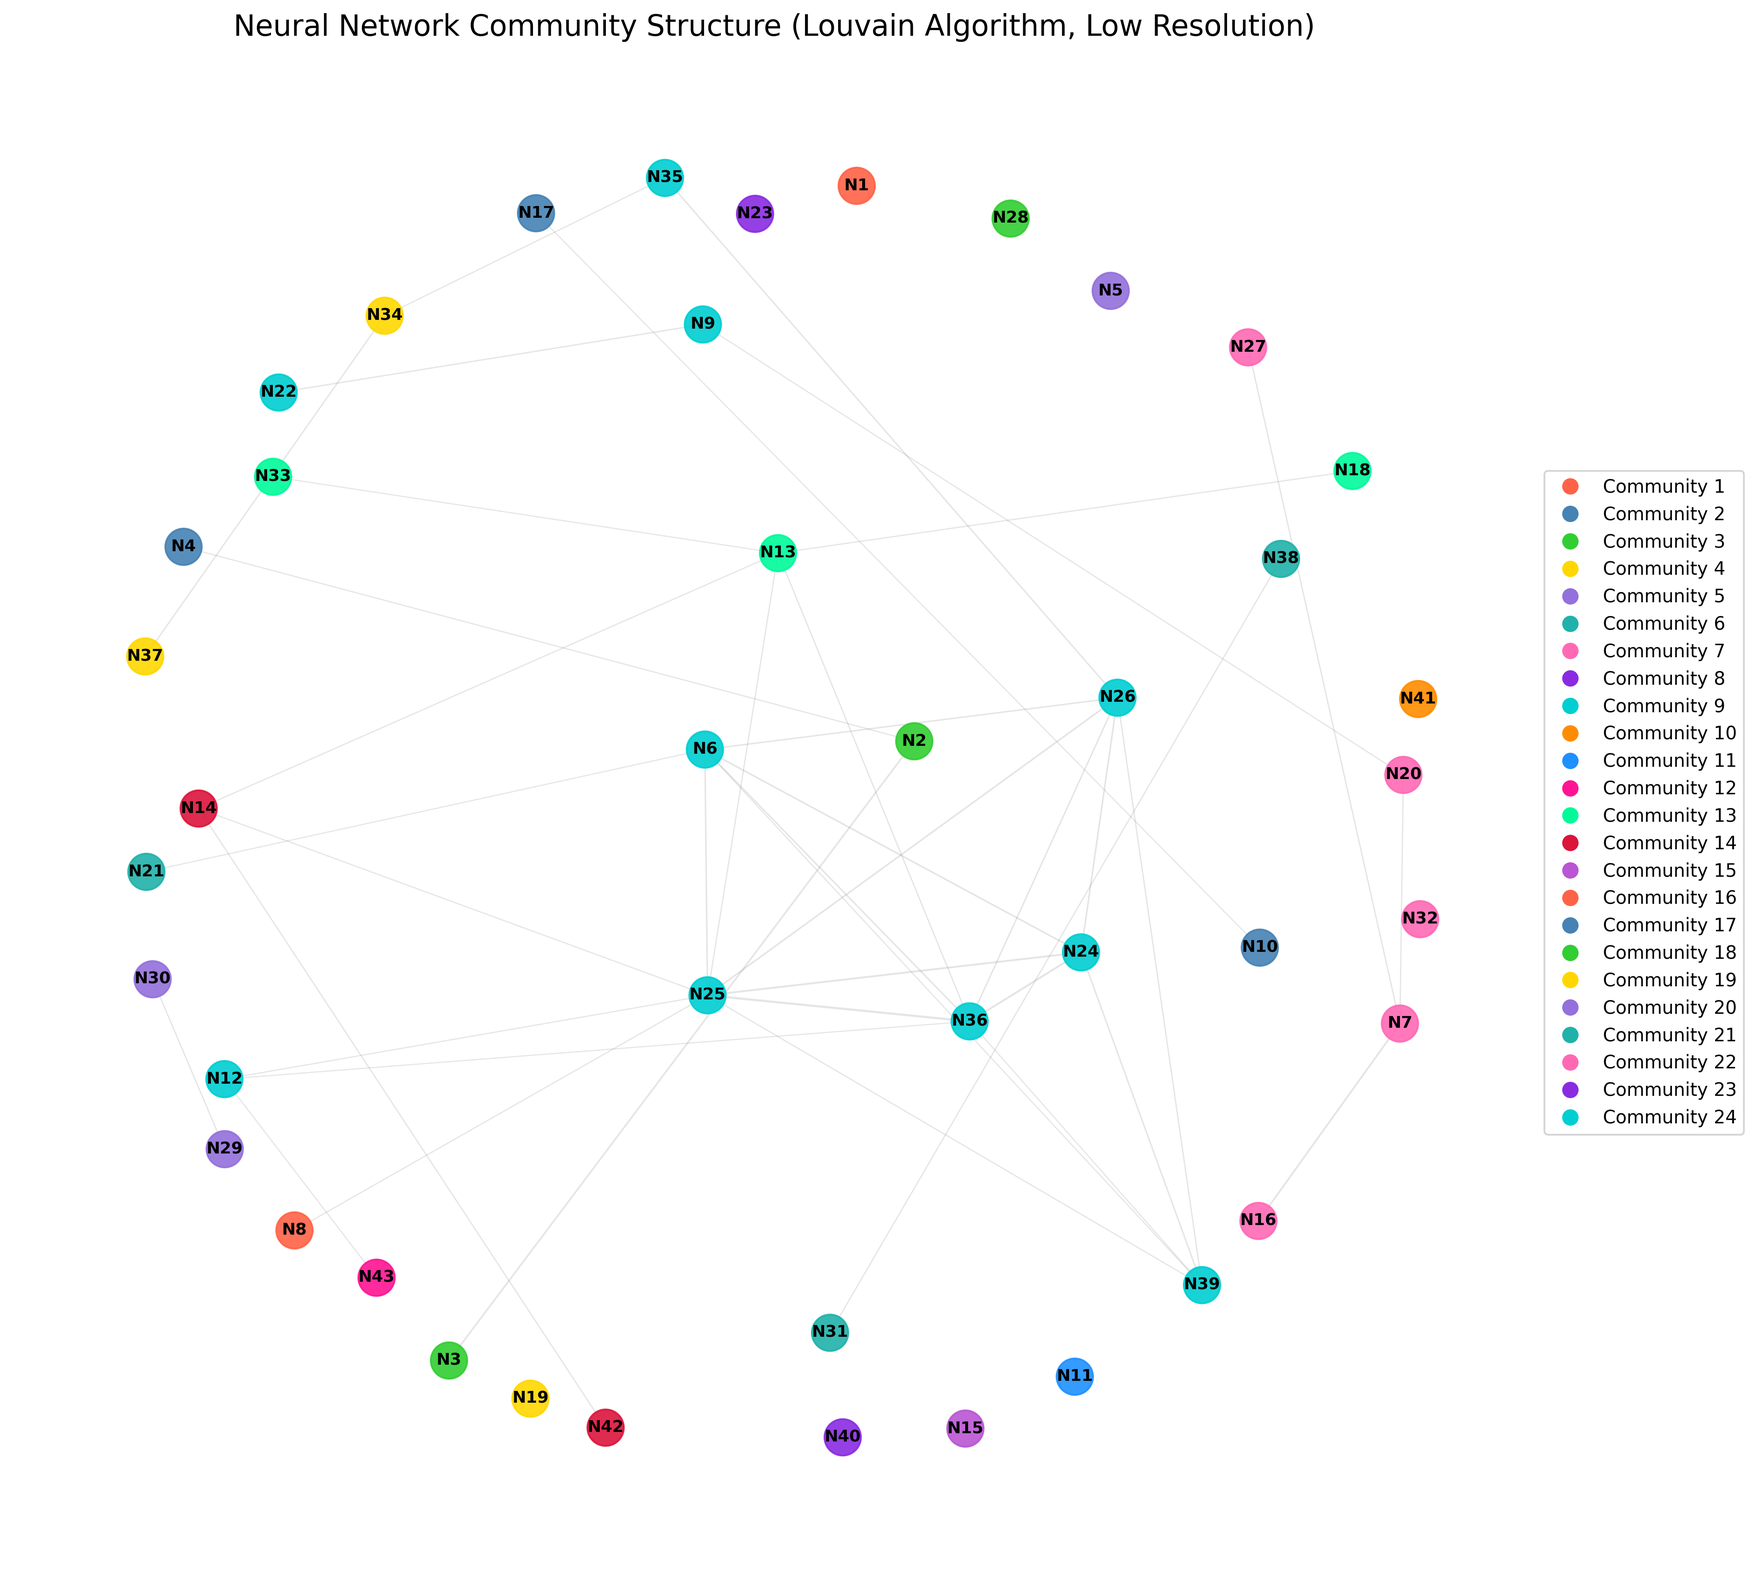
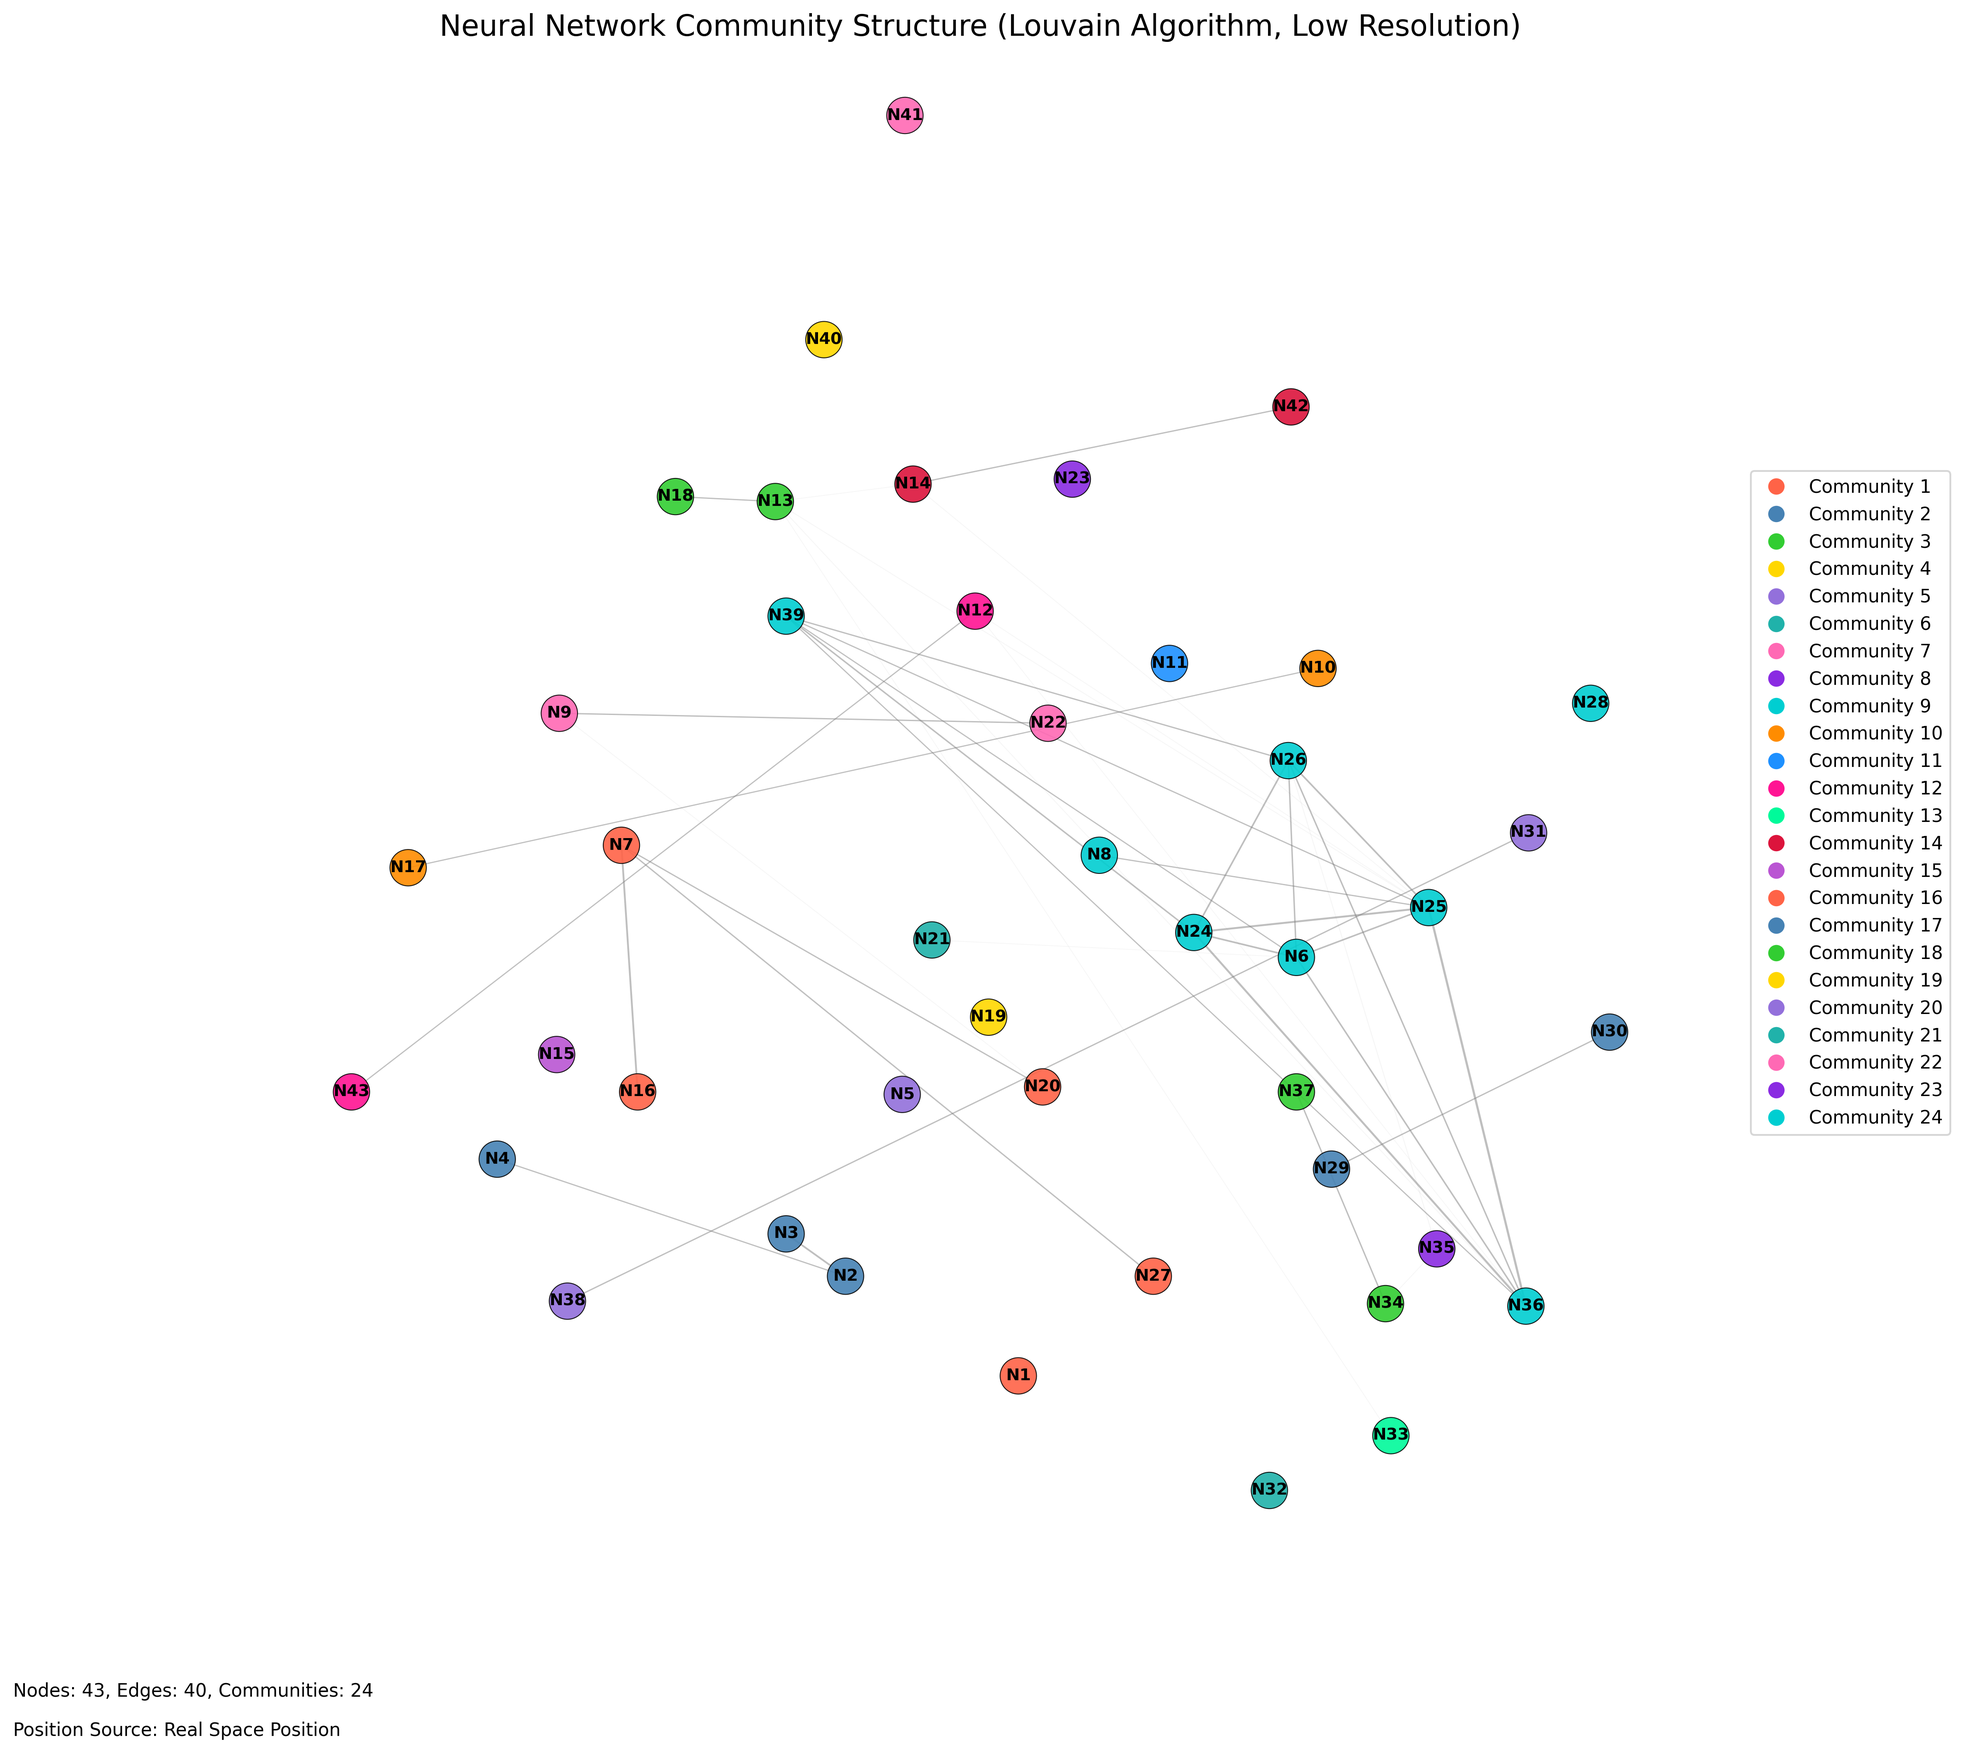
2

diff --git a/bettergcn/src/analysis.py b/bettergcn/src/analysis.py
@@ -391,13 +391,14 @@ class GCNVisualizer:
             
         return new_communities
     
-    def visualize_communities(self, output_path=None, title="Neural Network Community Structure"):
+    def visualize_communities(self, output_path=None, title="Neural Network Community Structure", position_file=None):
         """
         可视化社区结构
         
         参数:
             output_path: 输出文件路径，默认为None，将根据title生成
             title: 图表标题
+            position_file: 神经元位置坐标CSV文件路径，如果提供则使用真实空间位置
             
         返回:
             output_path: 输出图像路径
@@ -410,6 +411,7 @@ class GCNVisualizer:
             output_path = os.path.join(self.output_dir, "community_structure.png")
             
         print(f"\n开始生成社区结构可视化: {output_path}")
+        print(f"位置数据文件: {position_file if position_file else '未提供，将使用布局算法'}")
         
         # 创建图形
         plt.figure(figsize=(15, 15))
@@ -421,15 +423,155 @@ class GCNVisualizer:
         # 获取边权重用于设置边的宽度
         edge_weights = [self.G[u][v]['weight'] * 1.5 for u, v in self.G.edges()]
         
-        # 使用spring布局
-        pos = nx.spring_layout(self.G, k=2.0, iterations=100, seed=42)
+        # 确定节点位置
+        if position_file and os.path.exists(position_file):
+            try:
+                # 读取位置数据
+                import pandas as pd
+                position_data = pd.read_csv(position_file)
+                print(f"位置数据文件包含 {len(position_data)} 个神经元的位置信息")
+                
+                # 创建一个从神经元ID到位置的映射
+                position_map = {}
+                
+                # 检查CSV文件中的列名
+                columns = position_data.columns.tolist()
+                x_col = 'relative_x' if 'relative_x' in columns else columns[1]  # 默认第二列为x坐标
+                y_col = 'relative_y' if 'relative_y' in columns else columns[2]  # 默认第三列为y坐标
+                id_col = 'number' if 'number' in columns else columns[0]        # 默认第一列为ID
+                
+                print(f"使用列: ID={id_col}, X={x_col}, Y={y_col}")
+                
+                # 检查是否存在神经元编号与索引不一致的问题
+                neuron_ids_in_csv = set([int(row[id_col]) for _, row in position_data.iterrows()])
+                nodes_in_graph = set(self.G.nodes())
+                
+                # 查看最小和最大神经元ID，可能的偏移量
+                min_neuron_id = min(neuron_ids_in_csv) if neuron_ids_in_csv else -1
+                max_neuron_id = max(neuron_ids_in_csv) if neuron_ids_in_csv else -1
+                min_node_id = min(nodes_in_graph) if nodes_in_graph else -1
+                max_node_id = max(nodes_in_graph) if nodes_in_graph else -1
+                print(f"CSV中神经元ID范围: {min_neuron_id} 到 {max_neuron_id}")
+                print(f"图中节点ID范围: {min_node_id} 到 {max_node_id}")
+                
+                # 计算可能的偏移量，检查多种情况
+                offset = 0
+                
+                # 情况1: CSV从1开始，图从0开始 - 常见情况
+                if min_neuron_id == 1 and min_node_id == 0 and max_neuron_id - min_neuron_id == max_node_id - min_node_id:
+                    offset = -1
+                    print(f"检测到固定偏移: CSV从1开始，图从0开始，应用偏移量 {offset}")
+                
+                # 情况2: 检查ID集合的平均差值
+                elif len(neuron_ids_in_csv) > 0 and len(nodes_in_graph) > 0:
+                    # 如果数据集大小相同且有固定偏移，计算平均偏移
+                    if len(neuron_ids_in_csv) == len(nodes_in_graph):
+                        sorted_csv_ids = sorted(neuron_ids_in_csv)
+                        sorted_node_ids = sorted(nodes_in_graph)
+                        # 计算前10个ID的平均偏移（或全部如果少于10个）
+                        sample_size = min(10, len(sorted_csv_ids))
+                        offsets = [sorted_csv_ids[i] - sorted_node_ids[i] for i in range(sample_size)]
+                        avg_offset = sum(offsets) / len(offsets)
+                        # 如果所有偏移都相同，则认为是有效偏移
+                        if all(o == offsets[0] for o in offsets):
+                            offset = -offsets[0]  # 取负值因为我们需要从CSV ID到节点ID的映射
+                            print(f"检测到固定偏移模式: 平均偏移 {offsets[0]}，应用偏移量 {offset}")
+                
+                # 寻找每个节点的位置
+                missing_nodes = []
+                
+                for node in self.G.nodes():
+                    csv_id = node - offset  # 计算CSV中的对应ID
+                    if csv_id < 0:  # 防止负ID
+                        missing_nodes.append(node)
+                        continue
+                        
+                    row = position_data[position_data[id_col] == csv_id]
+                    if len(row) > 0:
+                        position_map[node] = (float(row[x_col].values[0]), float(row[y_col].values[0]))
+                    else:
+                        missing_nodes.append(node)
+                
+                # 如果我们有足够的位置信息，使用真实的空间位置
+                if len(position_map) == len(self.G.nodes()):
+                    pos = position_map
+                    print(f"使用真实空间位置可视化 {len(pos)} 个神经元")
+                else:
+                    print(f"警告：位置数据不完整 ({len(position_map)}/{len(self.G.nodes())})")
+                    if missing_nodes:
+                        print(f"缺失节点数量: {len(missing_nodes)}")
+                        if len(missing_nodes) < 10:
+                            print(f"缺失节点ID: {missing_nodes}")
+                        
+                    # 尝试使用可用的位置数据，对缺失的使用布局算法补充
+                    if len(position_map) > len(self.G.nodes()) * 0.8:  # 如果有超过80%的节点有位置数据
+                        print("使用部分真实位置数据，缺失部分使用布局算法补充")
+                        # 为缺失的节点生成位置
+                        try:
+                            # 使用布局算法为缺失节点生成位置
+                            temp_g = self.G.copy()
+                            for node in position_map:
+                                if node in temp_g:
+                                    temp_g.remove_node(node)
+                            
+                            if temp_g.number_of_nodes() > 0:
+                                temp_pos = nx.spring_layout(temp_g, seed=42)
+                                # 合并两个位置字典
+                                pos = {**position_map, **temp_pos}
+                            else:
+                                pos = position_map
+                        except Exception as e:
+                            print(f"补充缺失节点位置时出错: {e}")
+                            pos = position_map
+                    else:  # 如果缺失太多，使用布局算法
+                        print("缺失位置数据过多，使用布局算法")
+                        try:
+                            pos = nx.kamada_kawai_layout(self.G)
+                        except:
+                            pos = nx.spring_layout(self.G, seed=42, k=2.0, iterations=100)
+            except Exception as e:
+                print(f"读取位置数据时出错：{e}，将使用布局算法")
+                import traceback
+                print(f"错误详情:\n{traceback.format_exc()}")
+                try:
+                    pos = nx.kamada_kawai_layout(self.G)
+                except:
+                    pos = nx.spring_layout(self.G, seed=42, k=2.0, iterations=100)
+        else:
+            # 如果没有位置文件，使用布局算法
+            try:
+                pos = nx.kamada_kawai_layout(self.G)
+                print("使用Kamada-Kawai布局算法")
+            except:
+                pos = nx.spring_layout(self.G, seed=42, k=2.0, iterations=100)
+                print("使用Spring布局算法")
         
-        # 绘制边
-        nx.draw_networkx_edges(self.G, pos, width=edge_weights, alpha=0.2, edge_color='gray')
+        # 绘制边 - 根据不同社区边的透明度不同
+        same_community_edges = []
+        diff_community_edges = []
+        
+        for u, v in self.G.edges():
+            if self.communities[u] == self.communities[v]:
+                same_community_edges.append((u, v))
+            else:
+                diff_community_edges.append((u, v))
+        
+        # 先绘制社区间边（低透明度）
+        if diff_community_edges:
+            nx.draw_networkx_edges(self.G, pos, edgelist=diff_community_edges,
+                                width=[self.G[u][v]['weight'] * 1.0 for u, v in diff_community_edges],
+                                alpha=0.2, edge_color='lightgray')
+        
+        # 再绘制社区内边（高透明度）
+        if same_community_edges:
+            nx.draw_networkx_edges(self.G, pos, edgelist=same_community_edges,
+                                width=[self.G[u][v]['weight'] * 1.5 for u, v in same_community_edges],
+                                alpha=0.5, edge_color='gray')
         
         # 绘制节点
         node_sizes = [400 for _ in self.G.nodes()]
-        nx.draw_networkx_nodes(self.G, pos, node_size=node_sizes, node_color=node_colors, alpha=0.9)
+        nx.draw_networkx_nodes(self.G, pos, node_size=node_sizes, node_color=node_colors, alpha=0.9,
+                            edgecolors='black', linewidths=0.5)
         
         # 绘制节点标签
         labels = {node: f'N{node+1}' for node in self.G.nodes()}
@@ -445,6 +587,12 @@ class GCNVisualizer:
                                     markersize=10, label=f'Community {i+1}')
                          for i in range(num_communities)]
         plt.legend(handles=legend_elements, loc='center left', bbox_to_anchor=(1, 0.5))
+        
+        # 添加位置信息来源说明
+        position_source = "Real Space Position" if position_file and os.path.exists(position_file) else "Layout Algorithm Generated"
+        plt.figtext(0.02, 0.02, f"Position Source: {position_source}", fontsize=10)
+        plt.figtext(0.02, 0.04, f"Nodes: {len(self.G.nodes())}, Edges: {len(self.G.edges())}, Communities: {num_communities}", fontsize=10)
+        
         # 保存图像
         plt.savefig(output_path, dpi=300, bbox_inches='tight')
         plt.close()
@@ -797,6 +945,7 @@ def main():
     
     # 设置数据集基础路径 - 只需修改此处即可更改所有相关路径
     dataset_base_path = '../datasets/EMtrace01'
+    position_file = '../datasets/EMtrace01_Max_position.csv'
     
     # 初始化可视化器
     visualizer = GCNVisualizer(base_path=dataset_base_path)
@@ -806,7 +955,8 @@ def main():
     communities = visualizer.detect_communities()
     # 可视化社区结构
     community_viz_path = visualizer.visualize_communities(output_path="../results/EMtrace01/louvain_communities.png", 
-                                                         title="Neural Network Community Structure (Louvain Algorithm)")
+                                                         title="Neural Network Community Structure (Louvain Algorithm)",
+                                                         position_file=position_file)
     # 分析社区与行为的关联
     community_behavior_mapping = visualizer.analyze_community_behavior_association(
                                                          output_path="../results/EMtrace01/louvain_community_behaviors.png")
@@ -816,7 +966,8 @@ def main():
     communities = visualizer.detect_communities(resolution=0.3)
     # 可视化社区结构
     community_viz_path = visualizer.visualize_communities(output_path="../results/EMtrace01/louvain_communities_low_res.png", 
-                                                         title="Neural Network Community Structure (Louvain Algorithm, Low Resolution)")
+                                                         title="Neural Network Community Structure (Louvain Algorithm, Low Resolution)",
+                                                         position_file=position_file)
     # 分析社区与行为的关联
     community_behavior_mapping = visualizer.analyze_community_behavior_association(
                                                          output_path="../results/EMtrace01/louvain_low_res_behaviors.png")
@@ -826,7 +977,8 @@ def main():
     communities = visualizer.hierarchical_community_detection(n_communities=10)
     # 可视化社区结构
     community_viz_path = visualizer.visualize_communities(output_path="../results/EMtrace01/hierarchical_communities.png", 
-                                                         title="Neural Network Community Structure (Hierarchical Clustering, 10 Communities)")
+                                                         title="Neural Network Community Structure (Hierarchical Clustering, 10 Communities)",
+                                                         position_file=position_file)
     # 分析社区与行为的关联
     community_behavior_mapping = visualizer.analyze_community_behavior_association(
                                                          output_path="../results/EMtrace01/hierarchical_behaviors.png")
@@ -838,12 +990,25 @@ def main():
     merged_communities = visualizer.merge_small_communities(min_size=5)
     # 可视化合并后的社区结构
     community_viz_path = visualizer.visualize_communities(output_path="../results/EMtrace01/merged_communities.png", 
-                                                         title="Neural Network Community Structure (Merged Small Communities)")
+                                                         title="Neural Network Community Structure (Merged Small Communities)",
+                                                         position_file=position_file)
     # 分析社区与行为的关联
     community_behavior_mapping = visualizer.analyze_community_behavior_association(
                                                          output_path="../results/EMtrace01/merged_behaviors.png")
     
+    # 创建一个专门用真实位置的版本进行对比
+    print("\n=== 额外输出: 使用真实位置的层次聚类结果 ===")
+    # 执行层次聚类，指定社区数量为更少的数字
+    communities = visualizer.hierarchical_community_detection(n_communities=6)
+    # 可视化社区结构 - 使用真实位置
+    community_viz_path = visualizer.visualize_communities(
+        output_path="../results/EMtrace01/hierarchical_real_positions.png", 
+        title="Neural Network Community Structure (Hierarchical, Real Positions, 6 Communities)",
+        position_file=position_file
+    )
+    
     print(f"\n可视化分析完成！所有结果已保存到{visualizer.output_dir}目录")
+    print(f"所有可视化均使用了真实神经元位置数据：{position_file}")
 
 
 if __name__ == "__main__":
